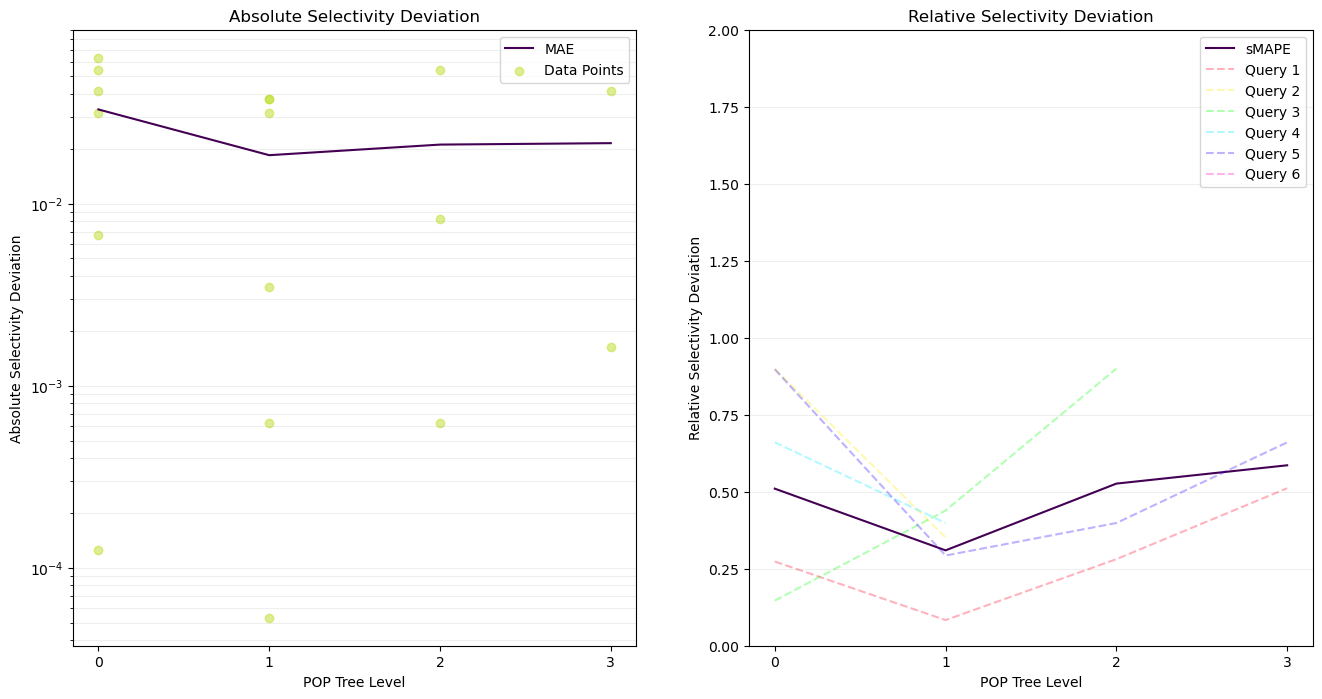
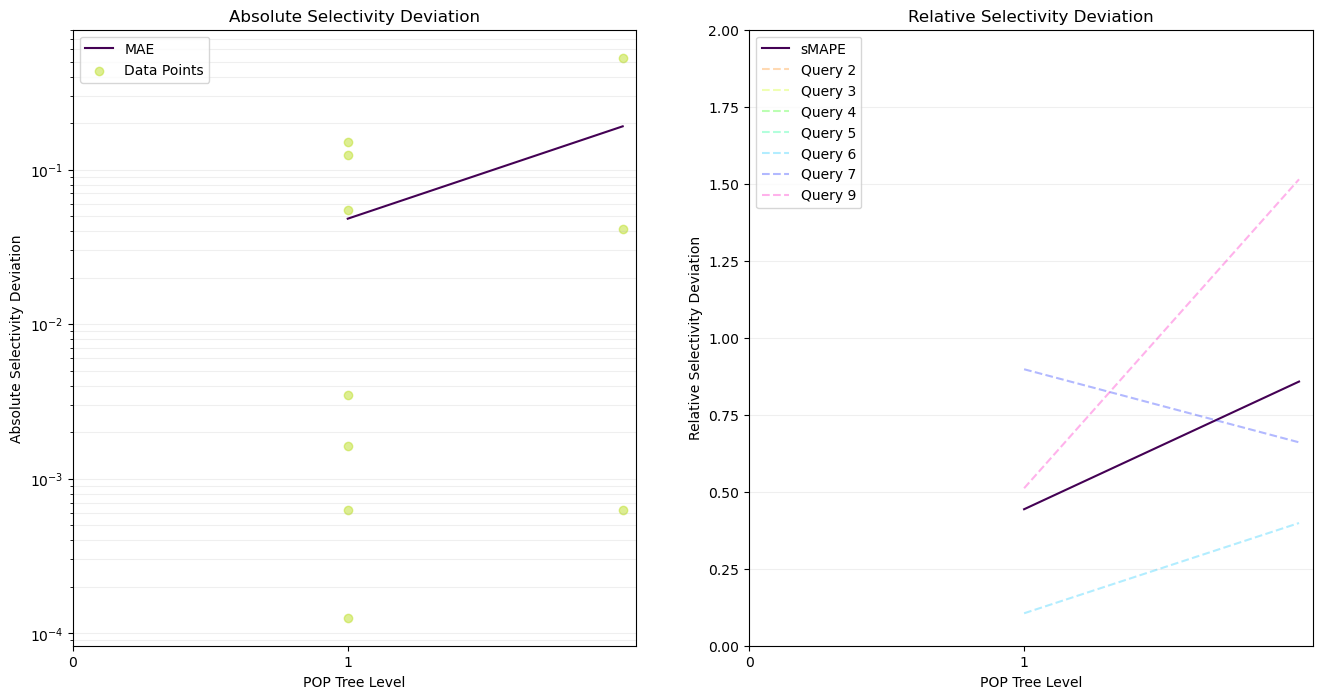
fix: Add better plan equivalence check

diff --git a/AlliumSativum.Shared/Models/ExecutionPlan/PlanOperators/FilterPlanOperator.cs b/AlliumSativum.Shared/Models/ExecutionPlan/PlanOperators/FilterPlanOperator.cs
@@ -44,4 +44,10 @@ public class FilterPlanOperator : PlanOperator
 
         return other.Expression.Equals(Expression);
     }
+    
+    public override bool IsEquivalentTo(PlanOperator? other)
+    {
+        if (!base.IsEquivalentTo(other)) return false;
+        return other is FilterPlanOperator otherFilter && Equals(otherFilter);
+    }
 }

diff --git a/AlliumSativum.Shared/Models/ExecutionPlan/PlanOperators/Join/HashJoinPlanOperator.cs b/AlliumSativum.Shared/Models/ExecutionPlan/PlanOperators/Join/HashJoinPlanOperator.cs
@@ -40,4 +40,10 @@ public sealed class HashJoinPlanOperator : JoinPlanOperator
 
         return other.Left.Equals(Left) && other.Right.Equals(Right) && other.Expression.Equals(Expression);
     }
+    
+    public override bool IsEquivalentTo(PlanOperator? other)
+    {
+        if (!base.IsEquivalentTo(other)) return false;
+        return other is HashJoinPlanOperator otherJoin && Equals(otherJoin);
+    }
 }

diff --git a/AlliumSativum.Shared/Models/ExecutionPlan/PlanOperators/Join/NestedLoopJoinPlanOperator.cs b/AlliumSativum.Shared/Models/ExecutionPlan/PlanOperators/Join/NestedLoopJoinPlanOperator.cs
@@ -40,4 +40,10 @@ public sealed class NestedLoopJoinPlanOperator : JoinPlanOperator
 
         return other.Left.Equals(Left) && other.Right.Equals(Right) && other.Expression.Equals(Expression);
     }
+    
+    public override bool IsEquivalentTo(PlanOperator? other)
+    {
+        if (!base.IsEquivalentTo(other)) return false;
+        return other is NestedLoopJoinPlanOperator otherJoin && Equals(otherJoin);
+    }
 }

diff --git a/AlliumSativum.Shared/Models/ExecutionPlan/PlanOperators/ProjectPlanOperator.cs b/AlliumSativum.Shared/Models/ExecutionPlan/PlanOperators/ProjectPlanOperator.cs
@@ -55,4 +55,10 @@ public class ProjectPlanOperator : PlanOperator
 
         return other.Attributes.All(x => Attributes.Contains(x));
     }
+    
+    public override bool IsEquivalentTo(PlanOperator? other)
+    {
+        if (!base.IsEquivalentTo(other)) return false;
+        return other is ProjectPlanOperator otherProject && Equals(otherProject);
+    }
 }

diff --git a/AlliumSativum.Shared/Models/ExecutionPlan/PlanOperators/PushdownRestCallPlanOperator.cs b/AlliumSativum.Shared/Models/ExecutionPlan/PlanOperators/PushdownRestCallPlanOperator.cs
@@ -52,4 +52,10 @@ public class PushdownRestCallPlanOperator : PlanOperator
         return other.DataSource.Equals(DataSource) && other.HttpMethod.Equals(HttpMethod) && other.Url.Equals(Url) &&
                (other.Body?.Equals(Body) ?? true);
     }
+    
+    public override bool IsEquivalentTo(PlanOperator? other)
+    {
+        if (!base.IsEquivalentTo(other)) return false;
+        return other is PushdownRestCallPlanOperator otherPushdown && Equals(otherPushdown);
+    }
 }

diff --git a/AlliumSativum.Shared/Models/ExecutionPlan/PlanOperators/PushdownSqlPlanOperator.cs b/AlliumSativum.Shared/Models/ExecutionPlan/PlanOperators/PushdownSqlPlanOperator.cs
@@ -47,4 +47,10 @@ public class PushdownSqlPlanOperator : PlanOperator
 
         return other.DataSource.Equals(DataSource) && other.SqlStatement.Equals(SqlStatement);
     }
+    
+    public override bool IsEquivalentTo(PlanOperator? other)
+    {
+        if (!base.IsEquivalentTo(other)) return false;
+        return other is PushdownSqlPlanOperator otherPushdown && Equals(otherPushdown);
+    }
 }

diff --git a/AlliumSativum.Shared/Models/ExecutionPlan/QueryExecutionPlan.cs b/AlliumSativum.Shared/Models/ExecutionPlan/QueryExecutionPlan.cs
@@ -9,6 +9,10 @@ public sealed class QueryExecutionPlan
     public required PlanOperator RootOperator { get; set; }
 
     public required long OptimizeTimeMs { get; set; }
+    /// <summary>
+    /// Flag indicating whether the plan represented by this execution plan was the winning plan after optimization.
+    /// </summary>
+    public bool OptimizeDidWin { get; set; }
 
     public string ToPrettyString(bool html = false)
     {

diff --git a/AlliumSativum.QueryServer/Controllers/BenchmarkController.cs b/AlliumSativum.QueryServer/Controllers/BenchmarkController.cs
@@ -62,7 +62,7 @@ public sealed class BenchmarkController
                         ActualCost = _costModel.TotalCost(plan.RootOperator, true),
                         EstimatedCost = plan.TotalCost,
                         JoinPlan = plan.RootOperator.ToJoinPlanString(),
-                        WasWinningPlan = plan.RootOperator.Equals(generatedWinningPlan.RootOperator)
+                        WasWinningPlan = plan.RootOperator.IsEquivalentTo(generatedWinningPlan.RootOperator)
                     });
 
                     _logger.LogInformation("Handled plan no. {PlanNumber} (of {TotalCount}) for query: {Query}.", index++,